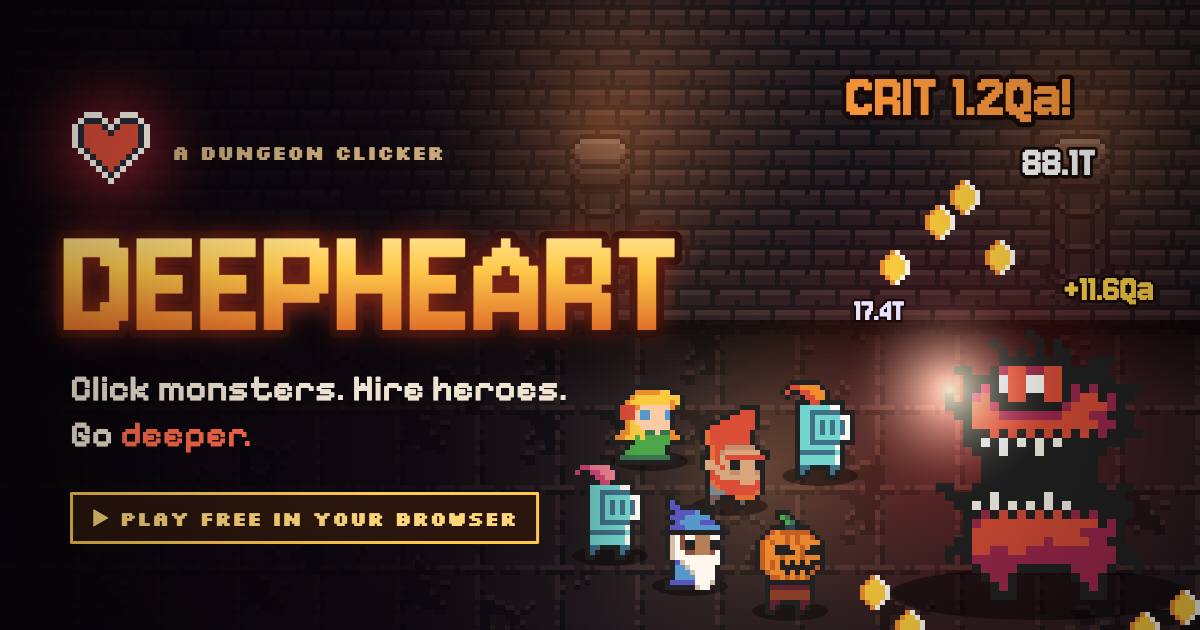
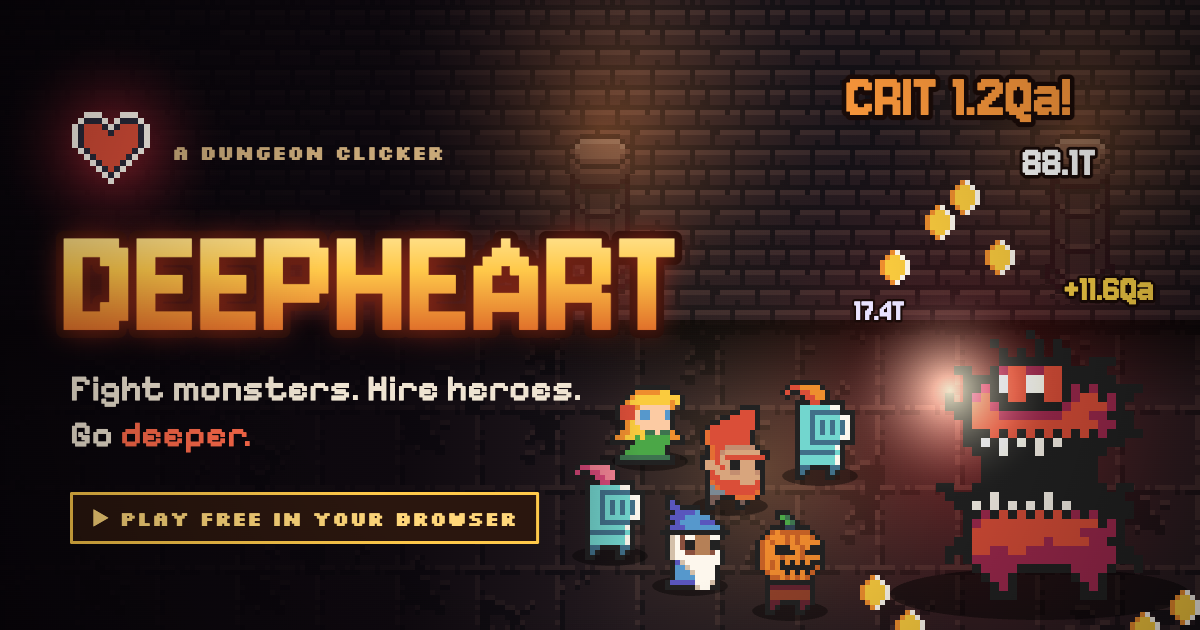
Fight monsters, not click monsters

Changed region(s): [[0.0617, 0.573, 0.4933, 0.6635]]

diff --git a/index.html b/index.html
@@ -7,9 +7,9 @@
     <meta name="apple-mobile-web-app-capable" content="yes" />
     <meta name="mobile-web-app-capable" content="yes" />
     <meta name="apple-mobile-web-app-status-bar-style" content="black-translucent" />
-    <meta name="description" content="Deepheart: click monsters to pieces, hire companions with their gold, and descend the dungeon for souls." />
+    <meta name="description" content="Deepheart: fight monsters, hire companions with their gold, and descend the dungeon for souls." />
     <meta property="og:title" content="Deepheart" />
-    <meta property="og:description" content="Click monsters. Hire heroes. Go deeper. A pixel-art dungeon clicker you can play free in your browser." />
+    <meta property="og:description" content="Fight monsters. Hire heroes. Go deeper. A pixel-art dungeon clicker you can play free in your browser." />
     <meta property="og:type" content="website" />
     <meta property="og:url" content="https://jamesurobertson.github.io/deepheart/" />
     <meta property="og:image" content="https://jamesurobertson.github.io/deepheart/og-image.png" />

diff --git a/README.md b/README.md
@@ -2,7 +2,7 @@
 
 ![Deepheart](public/og-image.png)
 
-Click monsters to pieces, hire companions with their gold, and descend the dungeon for souls.
+Fight monsters, hire companions with their gold, and descend the dungeon for souls.
 **Play it at https://jamesurobertson.github.io/deepheart/**
 
 ![Deepheart on desktop](docs/screenshots/carnage.jpg)
